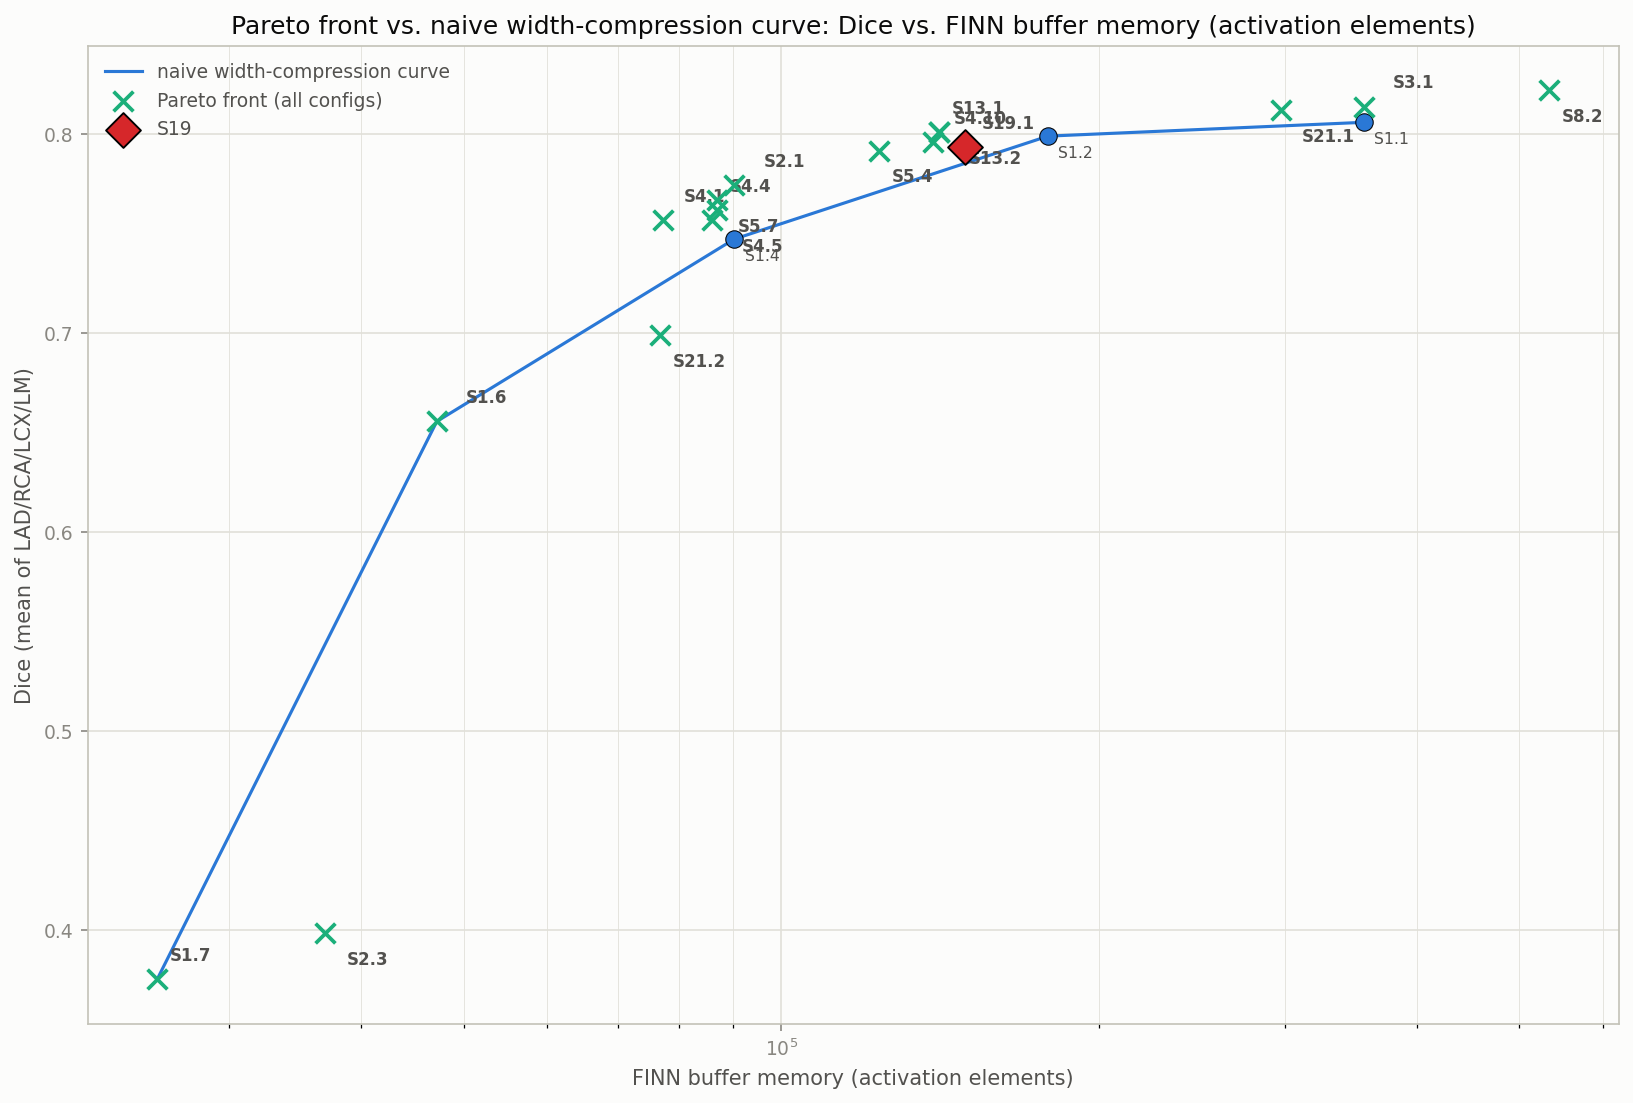
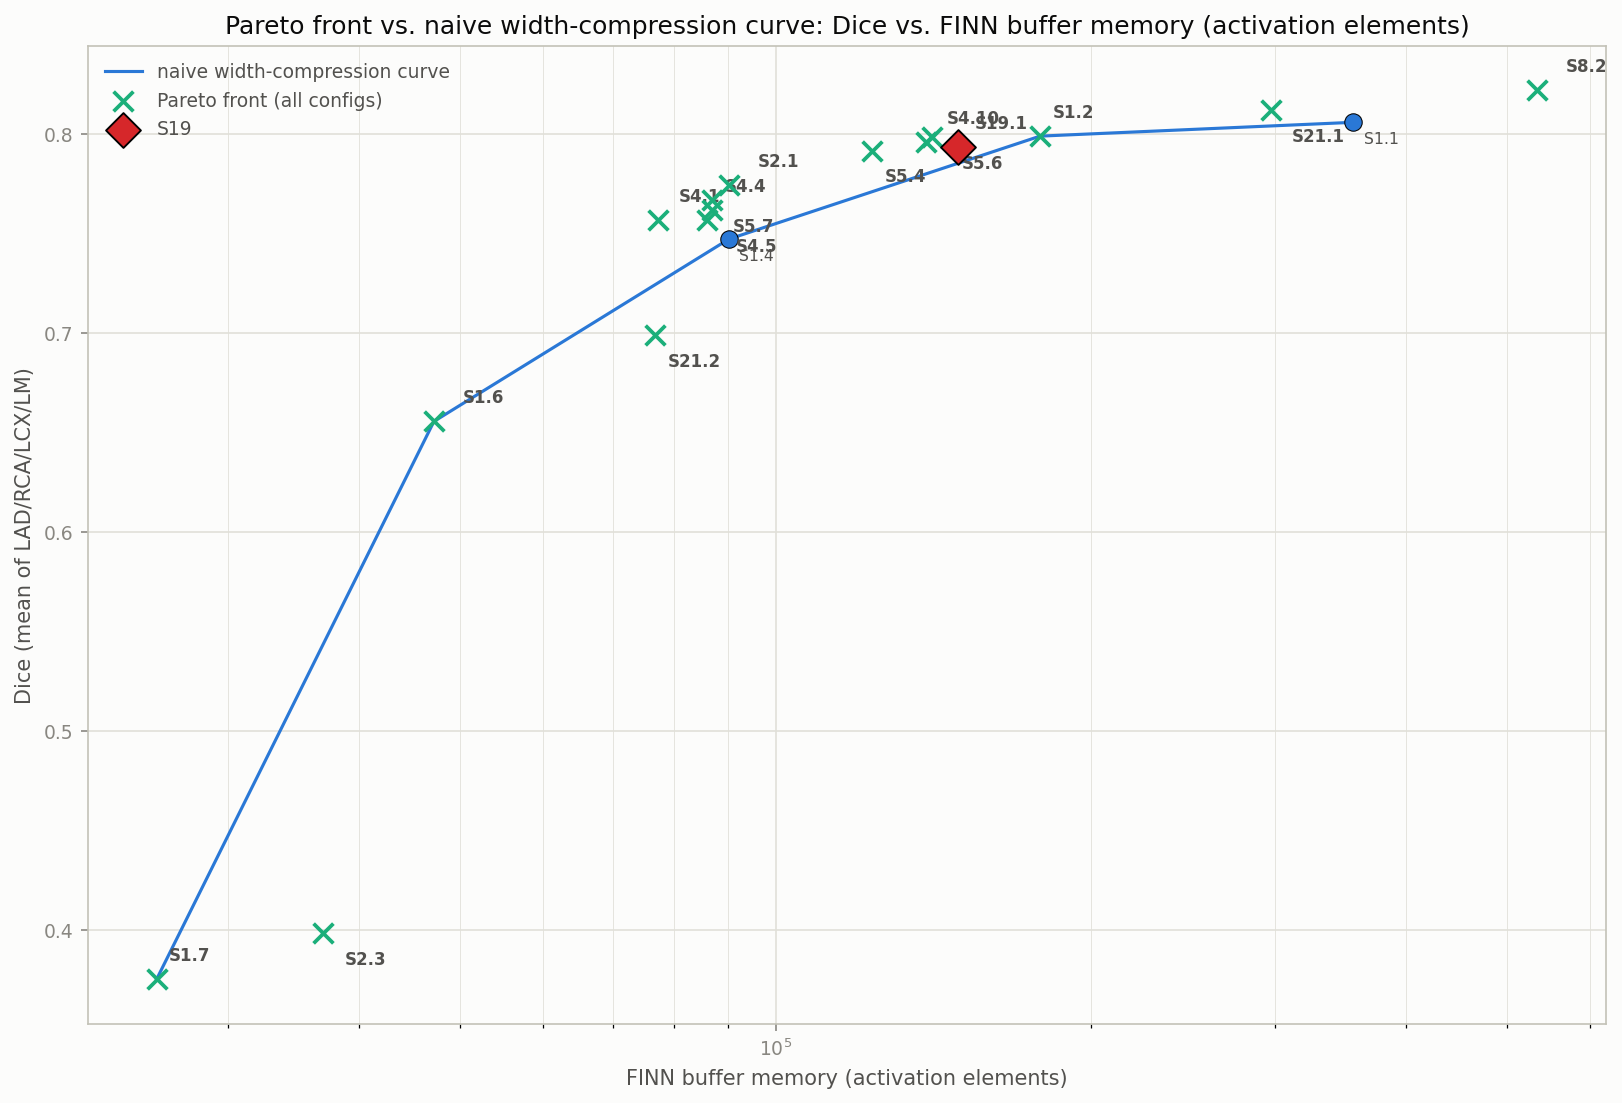
Final plots: exclude warm-started (training-unfaithful) runs from the Pareto front
S13.1 (nnUNetTrainerENet_13_separable_dense_nonneg_block_warmstart) and S13.2
(..._leaky_frozen) warm-start from 5_6_separable_dense_dilation's checkpoint
via -pretrained_weights; S13.2 additionally freezes the transferred
leaky-slope scalars for part of training. S3.1 (nnUNetTrainerENet_3_
transfer_original, the paper-faithful ENet baseline) turns out to warm-start
too, from the old binary Dataset501 checkpoint -- same pattern, confirmed by
reading its job script. All three measure a head start from prior training,
not the architecture alone, so none of them are an apples-to-apples
comparison against the rest of the from-scratch sweep for a cost-vs-accuracy
frontier. New UNFAITHFUL_TRAINING_CONFIGS set filters them out of the
Pareto-front computation only (pareto_eligible); doesn't touch the naive
curve (none of the three are naive_baseline-stage anyway) or the S19 marker.

diff --git a/compression/plot_final_width_comparison.py b/compression/plot_final_width_comparison.py
@@ -58,6 +58,20 @@ NAIVE_STAGE = "1_naive_baseline"
 # the one architecture-probe config the user calls out by name in the paper
 # comparison table -- keeps its own diamond marker on the Pareto front;
 # every other non-baseline front point is an X instead.
+
+# Runs trained via nnU-Net's own -pretrained_weights transfer (warm-started
+# from an already-trained checkpoint) rather than from scratch, so their
+# dice reflects head-start training, not the architecture alone -- not an
+# apples-to-apples comparison against the rest of the from-scratch sweep.
+# Excluded from the Pareto front entirely (all three: S3.1 warm-starts from
+# the old binary Dataset501 checkpoint; S13.1/S13.2 warm-start from
+# 5_6_separable_dense_dilation's checkpoint, S13.2 additionally freezing the
+# transferred leaky-slope scalars for part of training).
+UNFAITHFUL_TRAINING_CONFIGS = {
+    "nnUNetTrainerENet_3_transfer_original",
+    "nnUNetTrainerENet_13_separable_dense_nonneg_block_warmstart",
+    "nnUNetTrainerENet_13_separable_dense_nonneg_block_leaky_frozen",
+}
 S19_COLDSTART_CONFIG = "nnUNetTrainerENet_19_reginterleaved_separable_nonneg_block_double_mid"
 
 
@@ -104,7 +118,8 @@ def _plot_metric(named: pd.DataFrame, naive: pd.DataFrame, x_col: str, x_label: 
     _style_axes(ax)
 
     naive_sorted = naive.dropna(subset=[x_col, "dice"]).sort_values(x_col)
-    front = pareto_front(named, x_col)
+    pareto_eligible = named[~named["config_name"].isin(UNFAITHFUL_TRAINING_CONFIGS)]
+    front = pareto_front(pareto_eligible, x_col)
     # A naive point that's ALSO Pareto-optimal (e.g. the naive curve's own
     # cheapest/most-efficient points often are) gets its marker+label drawn
     # once below, from the Pareto loop -- skip it here so it isn't
